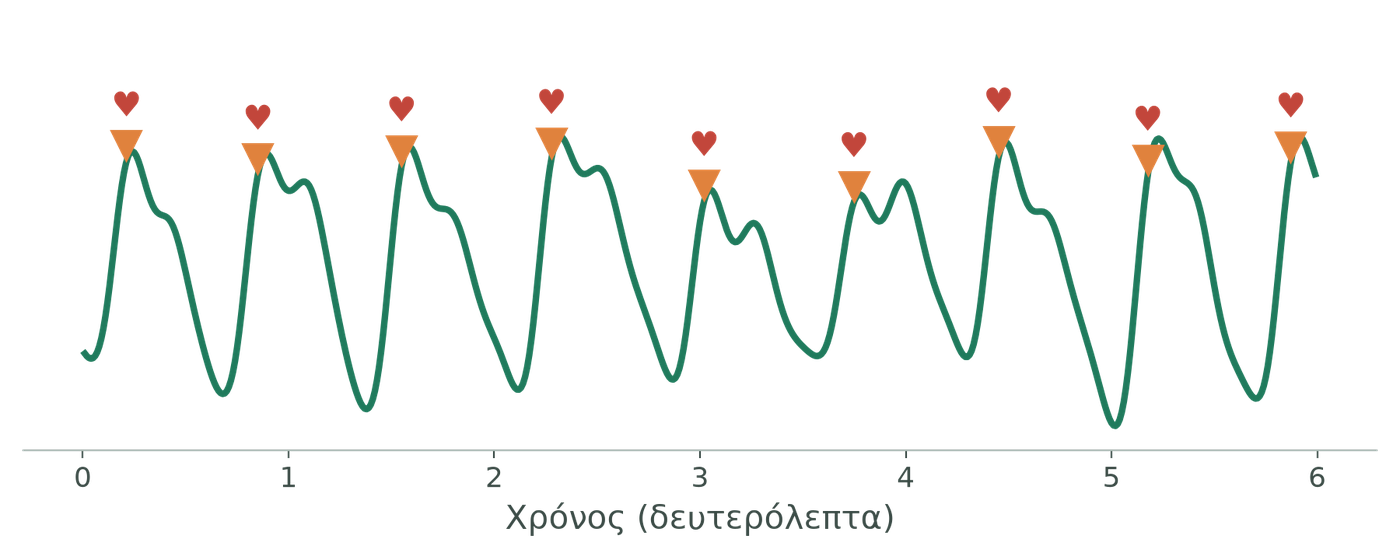
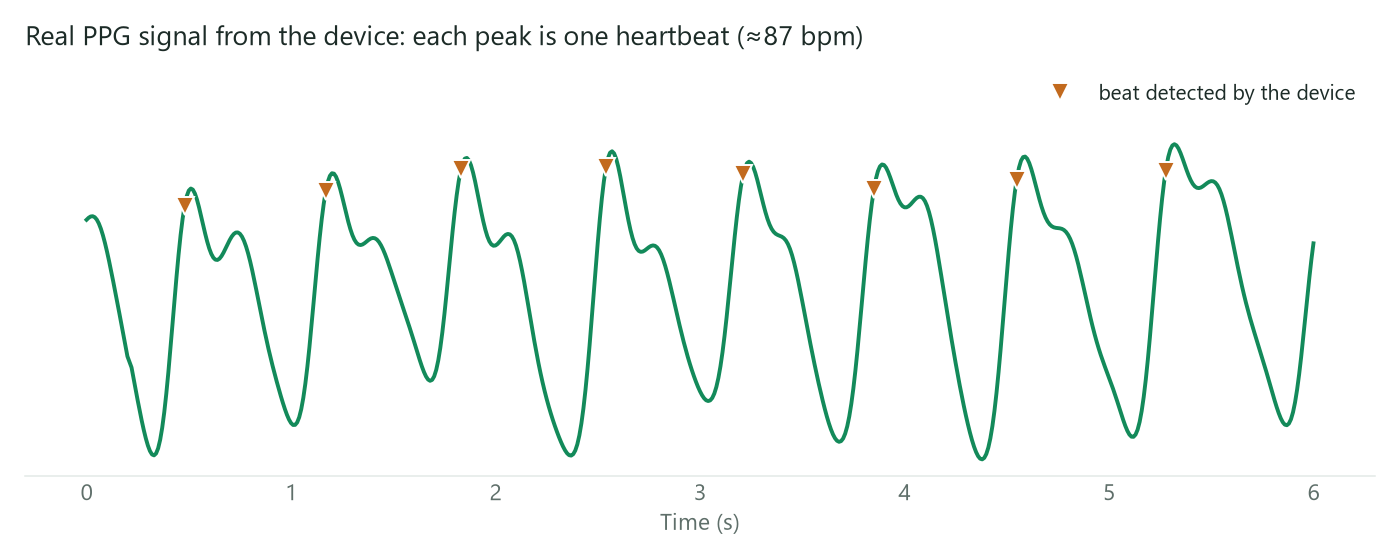
Translate README and figures to English
README rewritten in English. Charts (heart rate vs. oximeter, results at rest)
and figures (PPG signal, raw-signal analysis, wiring) regenerated with English
labels from the original recording; the Greek thesis figures are removed from
measurements/.

diff --git a/README.md b/README.md
@@ -1,7 +1,7 @@
 <h1 align="center">Smart Health Guardian</h1>
 
 <p align="center">
-  <b>Σύστημα IoT χαμηλού κόστους για ανάλυση ζωτικών σημάτων και ανίχνευση καταστάσεων υγείας με TinyML</b>
+  <b>A low-cost IoT system for vital-sign analysis and health-state detection with TinyML</b>
 </p>
 
 <p align="center">
@@ -13,86 +13,86 @@
 </p>
 
 <p align="center">
-  <img src="docs/images/device.jpg" width="420" alt="Το πρωτότυπο: ESP32 και αισθητήρας MAX30102">
+  <img src="docs/images/device.jpg" width="420" alt="The prototype: ESP32 and MAX30102 sensor">
 </p>
 
-Μια μικρή συσκευή που, με το δάχτυλο πάνω στον αισθητήρα, μετρά **παλμούς, οξυγόνο και μεταβλητότητα του καρδιακού
-ρυθμού**, και με ένα μικρό νευρωνικό δίκτυο **μέσα στην ίδια τη συσκευή, χωρίς internet**, εκτιμά την κατάσταση του
-χρήστη: ήρεμος, αγχωμένος, σε άσκηση κ.λπ. Όταν δεν είναι σίγουρη, λέει **«δεν ξέρω»** αντί να μαντέψει.
+A small device that, with a finger on the sensor, measures **heart rate, blood oxygen and heart-rate variability**, and
+uses a tiny neural network **running on the device itself, with no internet connection**, to estimate the user's
+state: relaxed, stressed, exercising and so on. When it is not sure, it says **"I don't know"** instead of guessing.
 
-Διπλωματική εργασία, Τμήμα Μηχανικών Παραγωγής και Διοίκησης, Διεθνές Πανεπιστήμιο της Ελλάδος, Θεσσαλονίκη 2026.
-
+Diploma thesis, Department of Industrial Engineering and Management, International Hellenic University,
+Thessaloniki 2026.
 
 > [!IMPORTANT]
-> Ερευνητικό πρωτότυπο (proof-of-concept). **Δεν είναι ιατρική συσκευή** και τα αποτελέσματά του δεν αποτελούν διάγνωση.
+> Research prototype (proof of concept). **It is not a medical device** and its outputs are not a diagnosis.
 
 ---
 
-## Με μια ματιά
+## At a glance
 
 | | |
 |---|---|
-| 💓 **Καρδιακός ρυθμός** | μέση διαφορά **−0,2 bpm** από εμπορικό οξύμετρο |
-| 🩸 **Οξυγόνο (SpO₂)** | μέση διαφορά **−0,2%** από εμπορικό οξύμετρο |
-| 🧠 **Ταξινόμηση σε ηρεμία** | **0 ψευδείς** παθολογικές ενδείξεις (πριν τις διορθώσεις: 82 στις 111) |
-| ⚡ **Χρόνος απόφασης** | **≈ 1,3 ms** μέσα στον ESP32 |
-| 💾 **Μνήμη** | 377 KB Flash (28%) · 28 KB RAM (8%) |
-| 📶 **Internet** | δεν χρειάζεται: όλη η ανάλυση γίνεται στη συσκευή |
+| 💓 **Heart rate** | mean difference **−0.2 bpm** from a commercial pulse oximeter |
+| 🩸 **Blood oxygen (SpO₂)** | mean difference **−0.2%** from a commercial pulse oximeter |
+| 🧠 **Classification at rest** | **0 false** pathological results (before the fixes: 82 out of 111) |
+| ⚡ **Decision time** | **≈ 1.3 ms** on the ESP32 |
+| 💾 **Memory** | 377 KB Flash (28%) · 28 KB RAM (8%) |
+| 📶 **Internet** | not needed: all analysis runs on the device |
 
 ---
 
-## Πώς λειτουργεί
+## How it works
 
 ```mermaid
 flowchart LR
-    A["👆 Δάχτυλο"] --> B["MAX30102<br/>κόκκινο + υπέρυθρο φως"]
-    B -->|"I2C, 100 δείγματα/s"| C["ESP32<br/>επεξεργασία σήματος"]
-    C --> D["Παλμοί · SpO₂ · HRV<br/>(RMSSD, pNN50) · θερμοκρασία"]
-    D --> E["Νευρωνικό δίκτυο<br/>(Edge Impulse)"]
-    D --> F["Ανίχνευση ανωμαλίας<br/>(K-means)"]
-    E --> G{"Κανόνες<br/>ασφαλείας"}
+    A["👆 Finger"] --> B["MAX30102<br/>red + infrared light"]
+    B -->|"I2C, 100 samples/s"| C["ESP32<br/>signal processing"]
+    C --> D["Heart rate · SpO₂ · HRV<br/>(RMSSD, pNN50) · temperature"]
+    D --> E["Neural network<br/>(Edge Impulse)"]
+    D --> F["Anomaly detection<br/>(K-means)"]
+    E --> G{"Safety<br/>rules"}
     F --> G
     G --> H["Relaxed · Stressed · Active<br/>Arrhythmia · Fever · Hypoxia<br/>Poor signal · Uncertain"]
 ```
 
-### 1. Το φως «βλέπει» την καρδιά
+### 1. Light "sees" the heart
 
-Σε κάθε χτύπο φτάνει λίγο περισσότερο αίμα στο δάχτυλο, που απορροφά φως. Ο αισθητήρας μετρά το φως που επιστρέφει
-(φωτοπληθυσμογραφία, PPG). Παρακάτω είναι το **πραγματικό σήμα της συσκευής**: κάθε κορυφή είναι ένας χτύπος.
+With every heartbeat a little more blood reaches the fingertip, and blood absorbs light. The sensor measures the light
+that comes back (photoplethysmography, PPG). Below is the **real signal recorded by the device**: every peak is one
+heartbeat.
 
-<p align="center"><img src="docs/images/ppg_signal.png" width="760" alt="Πραγματικό σήμα PPG με τους χτύπους"></p>
+<p align="center"><img src="docs/images/ppg_signal.png" width="760" alt="Real PPG signal with the detected beats"></p>
 
-Από αυτό το σήμα, ένας **ανιχνευτής παλμών που αναπτύχθηκε στο πλαίσιο της εργασίας** (φίλτρο ζώνης 0,5–4 Hz,
-χρονισμός στο σημείο της πιο απότομης ανόδου με ακρίβεια < 10 ms) υπολογίζει παλμούς, SpO₂ και μεταβλητότητα του
-καρδιακού ρυθμού (HRV).
+From this signal, a **beat detector developed for this project** (0.5–4 Hz band-pass filter, beat time at the
+steepest point of the upstroke with < 10 ms resolution) computes heart rate, SpO₂ and heart-rate variability (HRV).
 
-### 2. Η τεχνητή νοημοσύνη
+### 2. The artificial intelligence
 
-Κάθε δευτερόλεπτο η συσκευή παίρνει τις μετρήσεις των τελευταίων 3 δευτερολέπτων, κρατά τον μέσο όρο 5 τιμών και τις
-δίνει σε ένα μικρό νευρωνικό δίκτυο (5 → 40 → 20 → 7). Παράλληλα, ένας έλεγχος ανωμαλίας (K-means, 32 ομάδες) μετρά
-πόσο «γνώριμη» είναι η μέτρηση. Αν δεν μοιάζει με τα δεδομένα εκπαίδευσης, το αποτέλεσμα εμφανίζεται ως **Uncertain**.
+Every second the device takes the last 3 seconds of measurements, averages 5 values and feeds them to a small neural
+network (5 → 40 → 20 → 7). In parallel, an anomaly detector (K-means, 32 clusters) scores how "familiar" the
+measurement is. If it does not look like the training data, the result is shown as **Uncertain**.
 
-<p align="center"><img src="docs/images/edge_impulse_design.png" width="760" alt="Σχεδιασμός του μοντέλου στο Edge Impulse"></p>
+<p align="center"><img src="docs/images/edge_impulse_design.png" width="760" alt="Model design in Edge Impulse"></p>
 
-Επειδή δεν είναι δυνατόν να προκληθεί αρρυθμία ή χαμηλό οξυγόνο σε άνθρωπο, το μοντέλο εκπαιδεύτηκε σε **συνθετικά
-δεδομένα** (116.000 γραμμές σε 56 αρχεία) που φτιάχνει το [`data/generate_datasets_v2.py`](data/generate_datasets_v2.py)
-με εύρη τιμών από τη βιβλιογραφία.
+Because arrhythmia or low blood oxygen cannot be induced in a person to collect data, the model was trained on
+**synthetic data** (116,000 rows in 56 files) produced by [`data/generate_datasets_v2.py`](data/generate_datasets_v2.py)
+with value ranges taken from the literature.
 
 <table>
 <tr>
-<td width="50%"><img src="docs/images/edge_impulse_results.png" alt="Αποτελέσματα εκπαίδευσης στο Edge Impulse"></td>
+<td width="50%"><img src="docs/images/edge_impulse_results.png" alt="Training results in Edge Impulse"></td>
 <td width="50%">
 
-**Ακρίβεια του μοντέλου** (συνθετικά δεδομένα)
+**Model accuracy** (synthetic data)
 
-| Μετρική | Τιμή |
+| Metric | Value |
 |---|---|
-| Σύνολο επικύρωσης | **94,5%** |
-| Σύνολο ελέγχου | 89,4% |
-| Weighted F1 | 0,94 |
-| Μοντέλο | float32, EON Compiler |
+| Validation set | **94.5%** |
+| Test set | 89.4% |
+| Weighted F1 | 0.94 |
+| Model | float32, EON Compiler |
 
-Τα λίγα λάθη είναι ανάμεσα σε καταστάσεις που μοιάζουν, π.χ. στρες και άσκηση, όπου και στις δύο οι παλμοί είναι ψηλοί.
+The few errors are between similar states, e.g. stress and exercise, where heart rate is high in both.
 
 </td>
 </tr>
@@ -100,52 +100,53 @@ flowchart LR
 
 ---
 
-## Αποτελέσματα
+## Results
 
-Οι μετρήσεις έγιναν με τη συσκευή και ένα **εμπορικό οξύμετρο (Vicko)** ταυτόχρονα, με καταγραφή της ώρας κάθε ένδειξης.
+The device and a **commercial pulse oximeter (Vicko)** were used at the same time, and the time of every oximeter
+reading was logged.
 
-<p align="center"><img src="docs/images/bpm_vs_oximeter.png" width="760" alt="Καρδιακός ρυθμός: συσκευή έναντι οξυμέτρου"></p>
+<p align="center"><img src="docs/images/bpm_vs_oximeter.png" width="760" alt="Heart rate: device vs. oximeter"></p>
 
-| | Συσκευή | Οξύμετρο | Διαφορά |
+| | Device | Oximeter | Difference |
 |---|---|---|---|
-| Καρδιακός ρυθμός (μέσος, 7 σημεία) | 86,0 bpm | 86,1 bpm | **−0,2 bpm** (μέση απόλυτη 1,9) |
-| SpO₂ (μέσο, 7 σημεία) | 98,6% | 98,9% | **−0,2%** (μέγιστη 0,7%) |
+| Heart rate (mean of 7 points) | 86.0 bpm | 86.1 bpm | **−0.2 bpm** (mean absolute 1.9) |
+| SpO₂ (mean of 7 points) | 98.6% | 98.9% | **−0.2%** (max 0.7%) |
 
-<p align="center"><img src="docs/images/results_at_rest.png" width="760" alt="Αποτελέσματα ταξινόμησης σε ηρεμία πριν και μετά"></p>
+<p align="center"><img src="docs/images/results_at_rest.png" width="760" alt="Classification results at rest, before and after"></p>
 
-Σε **δοκιμή ελεγχόμενης κίνησης** (το δάχτυλο κουνιέται για 20 δευτερόλεπτα) η συσκευή δεν έδωσε κανένα αποτέλεσμα όσο
-υπήρχε κίνηση και μετά εμφάνισε «Uncertain»: όταν δεν είναι σίγουρη, το λέει.
+In a **controlled motion test** (the finger moved on the sensor for 20 seconds) the device gave no result while the
+motion lasted and then showed "Uncertain": when it is not sure, it says so.
 
-### Τι «λέει» η συσκευή
+### What the device "says"
 
-Πραγματική έξοδος της τελικής έκδοσης στο Serial Monitor, με τον χρήστη σε ηρεμία:
+Real output of the final version in the Serial Monitor, with the user at rest:
 
-<p align="center"><img src="docs/images/serial_output.png" width="620" alt="Έξοδος της συσκευής στο Serial Monitor"></p>
+<p align="center"><img src="docs/images/serial_output.png" width="620" alt="Device output in the Serial Monitor"></p>
 
 ---
 
-## Τι βελτιώθηκε: από 82 λάθη σε 0
+## What was improved: from 82 errors to 0
 
-Το πρώτο πρωτότυπο, με τον χρήστη σε ηρεμία, έβγαζε «Arrhythmia» 82 φορές στις 111. Με έλεγχο του κώδικα, μετρήσεις
-δίπλα σε οξύμετρο και [ανάλυση του ακατέργαστου σήματος](measurements/) βρέθηκαν τέσσερις αιτίες:
+With the user at rest, the first prototype reported "Arrhythmia" 82 times out of 111. Code review, measurements next
+to an oximeter and an [analysis of the raw sensor signal](measurements/) revealed four causes:
 
-| Πρόβλημα | Λύση |
+| Problem | Fix |
 |---|---|
-| 🔻 **Χάνονταν μετρήσεις**: όσο τύπωνε αποτελέσματα, χανόταν το 5–8% των δειγμάτων, οπότε οι παλμοί έβγαιναν ~5% ψηλότεροι | Μεγαλύτερη μνήμη αποστολής και διόρθωση του χρόνου: **0 απώλειες** |
-| 💓 **Ανακριβής χρονισμός παλμών**: ο έτοιμος αλγόριθμος έπεφτε έξω έως ±50 ms και η ηρεμία έμοιαζε με αρρυθμία | Νέος ανιχνευτής παλμών: ρεαλιστικές τιμές HRV (RMSSD ≈ 45 ms) |
-| 📊 **Πολύ «στενά» δεδομένα εκπαίδευσης**: ένας ήρεμος άνθρωπος με 88 παλμούς δεν ταίριαζε σε καμία κατηγορία | Νέο σύνολο δεδομένων v2 και επανεκπαίδευση |
-| ❓ **Δεν ήξερε να πει «δεν ξέρω»**: σε άγνωστη μέτρηση έδινε τυχαία απάντηση με σιγουριά 99,6% | Έλεγχος ανωμαλίας: πάνω από 0,3 εμφανίζεται «Uncertain» |
+| 🔻 **Samples were lost**: while printing results, 5–8% of the samples were dropped, so heart rate came out ~5% too high | Larger serial transmit buffer and time correction: **0 lost samples** |
+| 💓 **Inaccurate beat timing**: the stock detector was off by up to ±50 ms, so rest looked like arrhythmia | New beat detector: realistic HRV values (RMSSD ≈ 45 ms) |
+| 📊 **Training data too narrow**: a relaxed person with 88 bpm did not fit any class | New dataset v2 and retraining |
+| ❓ **It could not say "I don't know"**: for an unfamiliar input it gave a random answer with 99.6% confidence | Anomaly check: above 0.3 the result is shown as "Uncertain" |
 
-<p align="center"><img src="measurements/fig6_raw_signal.png" width="760" alt="Ανάλυση του ακατέργαστου σήματος"></p>
+<p align="center"><img src="docs/images/raw_signal_analysis.png" width="760" alt="Analysis of the raw sensor signal"></p>
 
 ---
 
-## Υλικό και συνδεσμολογία
+## Hardware and wiring
 
 <table>
 <tr>
-<td width="62%"><img src="docs/images/wiring.png" alt="Συνδεσμολογία ESP32 - MAX30102"></td>
-<td width="38%" align="center"><img src="docs/images/breadboard.jpg" width="230" alt="Το πρωτότυπο σε breadboard"></td>
+<td width="62%"><img src="docs/images/wiring.png" alt="Wiring ESP32 - MAX30102"></td>
+<td width="38%" align="center"><img src="docs/images/breadboard.jpg" width="230" alt="The prototype on a breadboard"></td>
 </tr>
 </table>
 
@@ -156,49 +157,49 @@ flowchart LR
 | SDA | GPIO18 |
 | SCL | GPIO19 |
 
-I2C στα 400 kHz (`Wire.begin(18, 19)`). Μόνο τέσσερα καλώδια.
+I2C at 400 kHz (`Wire.begin(18, 19)`). Just four wires.
 
 ---
 
-## Εγκατάσταση και ανέβασμα στον ESP32
+## Setup and upload to the ESP32
 
-1. **Arduino IDE** με υποστήριξη πλακετών **esp32** (Espressif) και πλακέτα **ESP32 Dev Module**.
-2. **Βιβλιοθήκες**:
-   - *SparkFun MAX3010x Pulse and Proximity Sensor Library* (από τον Library Manager).
-   - Το μοντέλο: *Sketch → Include Library → Add .ZIP Library…* και επιλογή του zip από το [`firmware/library/`](firmware/library/).
-3. Άνοιγμα του [`firmware/smart_health_guardian_v29/smart_health_guardian_v29.ino`](firmware/smart_health_guardian_v29/smart_health_guardian_v29.ino)
-   και **Upload**. Σε ορισμένες πλακέτες χρειάζεται να κρατηθεί πατημένο το κουμπί **BOOT** μέχρι να ξεκινήσει το ανέβασμα.
-4. **Serial Monitor** στα **115200 baud**. Με το δάχτυλο στον αισθητήρα, το πρώτο αποτέλεσμα εμφανίζεται σε περίπου
-   40 δευτερόλεπτα και μετά ανανεώνεται κάθε δευτερόλεπτο.
+1. **Arduino IDE** with the **esp32** board package (Espressif) and the **ESP32 Dev Module** board.
+2. **Libraries**:
+   - *SparkFun MAX3010x Pulse and Proximity Sensor Library* (from the Library Manager).
+   - The model: *Sketch → Include Library → Add .ZIP Library…* and select the zip in [`firmware/library/`](firmware/library/).
+3. Open [`firmware/smart_health_guardian_v29/smart_health_guardian_v29.ino`](firmware/smart_health_guardian_v29/smart_health_guardian_v29.ino)
+   and click **Upload**. On some boards the **BOOT** button must be held until the upload starts.
+4. **Serial Monitor** at **115200 baud**. With a finger on the sensor, the first result appears after about
+   40 seconds and is then refreshed every second.
 
-### Αναπαραγωγή των δεδομένων
+### Reproducing the data
 
 ```bash
 cd data
-python generate_datasets_v2.py      # γράφει ξανά το data/datasets_v2/ (σταθερό seed)
+python generate_datasets_v2.py      # rewrites data/datasets_v2/ (fixed random seed)
 ```
 
 ---
 
-## Δομή του repository
+## Repository layout
 
-| Φάκελος | Τι περιέχει |
+| Folder | Contents |
 |---|---|
-| [`firmware/smart_health_guardian_v29/`](firmware/smart_health_guardian_v29/) | **Τελικός κώδικας** (V29) για Arduino IDE |
-| [`firmware/smart_health_guardian_v28/`](firmware/smart_health_guardian_v28/) | Προηγούμενη έκδοση, για σύγκριση |
-| [`firmware/library/`](firmware/library/) | Βιβλιοθήκη του μοντέλου από το Edge Impulse (v1.0.9) |
-| [`data/datasets_v1/`](data/datasets_v1/) | Πρώτο συνθετικό σύνολο δεδομένων (έως V28) |
-| [`data/datasets_v2/`](data/datasets_v2/) | Τελικό συνθετικό σύνολο (56 αρχεία, 116.000 γραμμές) |
-| [`data/generate_datasets_v2.py`](data/generate_datasets_v2.py) | Πρόγραμμα που παράγει το `datasets_v2` |
-| [`measurements/`](measurements/) | Καταγραφές της συσκευής, ενδείξεις του οξυμέτρου και scripts ανάλυσης |
-| [`docs/images/`](docs/images/) | Εικόνες και γραφήματα αυτού του README |
+| [`firmware/smart_health_guardian_v29/`](firmware/smart_health_guardian_v29/) | **Final firmware** (V29) for the Arduino IDE |
+| [`firmware/smart_health_guardian_v28/`](firmware/smart_health_guardian_v28/) | Previous version, for comparison |
+| [`firmware/library/`](firmware/library/) | Edge Impulse model library (v1.0.9) |
+| [`data/datasets_v1/`](data/datasets_v1/) | First synthetic dataset (up to V28) |
+| [`data/datasets_v2/`](data/datasets_v2/) | Final synthetic dataset (56 files, 116,000 rows) |
+| [`data/generate_datasets_v2.py`](data/generate_datasets_v2.py) | Script that generates `datasets_v2` |
+| [`measurements/`](measurements/) | Device logs, oximeter readings and analysis scripts |
+| [`docs/images/`](docs/images/) | Images and charts used in this README |
 
 ---
 
-## Περιορισμοί
+## Limitations
 
-- Η αξιολόγηση έγινε σε **έναν χρήστη** και με λίγα σημεία σύγκρισης: δεν αποτελεί στατιστική ή κλινική επικύρωση.
-- Το μοντέλο εκπαιδεύτηκε σε **συνθετικά δεδομένα**, όχι σε ασθενείς. Οι 94,5% αφορούν τα συνθετικά δεδομένα.
-- Το **SpO₂** και η **θερμοκρασία** είναι ενδεικτικά (εμπειρική διόρθωση με ένα όργανο σύγκρισης).
-- Επόμενα βήματα: δεδομένα από πολλούς ανθρώπους, σύγκριση με ηλεκτροκαρδιογράφημα (ECG), αισθητήρας κίνησης,
-  οθόνη ή εφαρμογή κινητού.
+- The evaluation used **one person** and few comparison points: it is not a statistical or clinical validation.
+- The model was trained on **synthetic data**, not on patients. The 94.5% refers to synthetic data.
+- **SpO₂** and **temperature** are indicative only (empirical correction against a single reference device).
+- Next steps: data from many people, comparison with an electrocardiogram (ECG), a motion sensor, and a display or
+  phone app.
